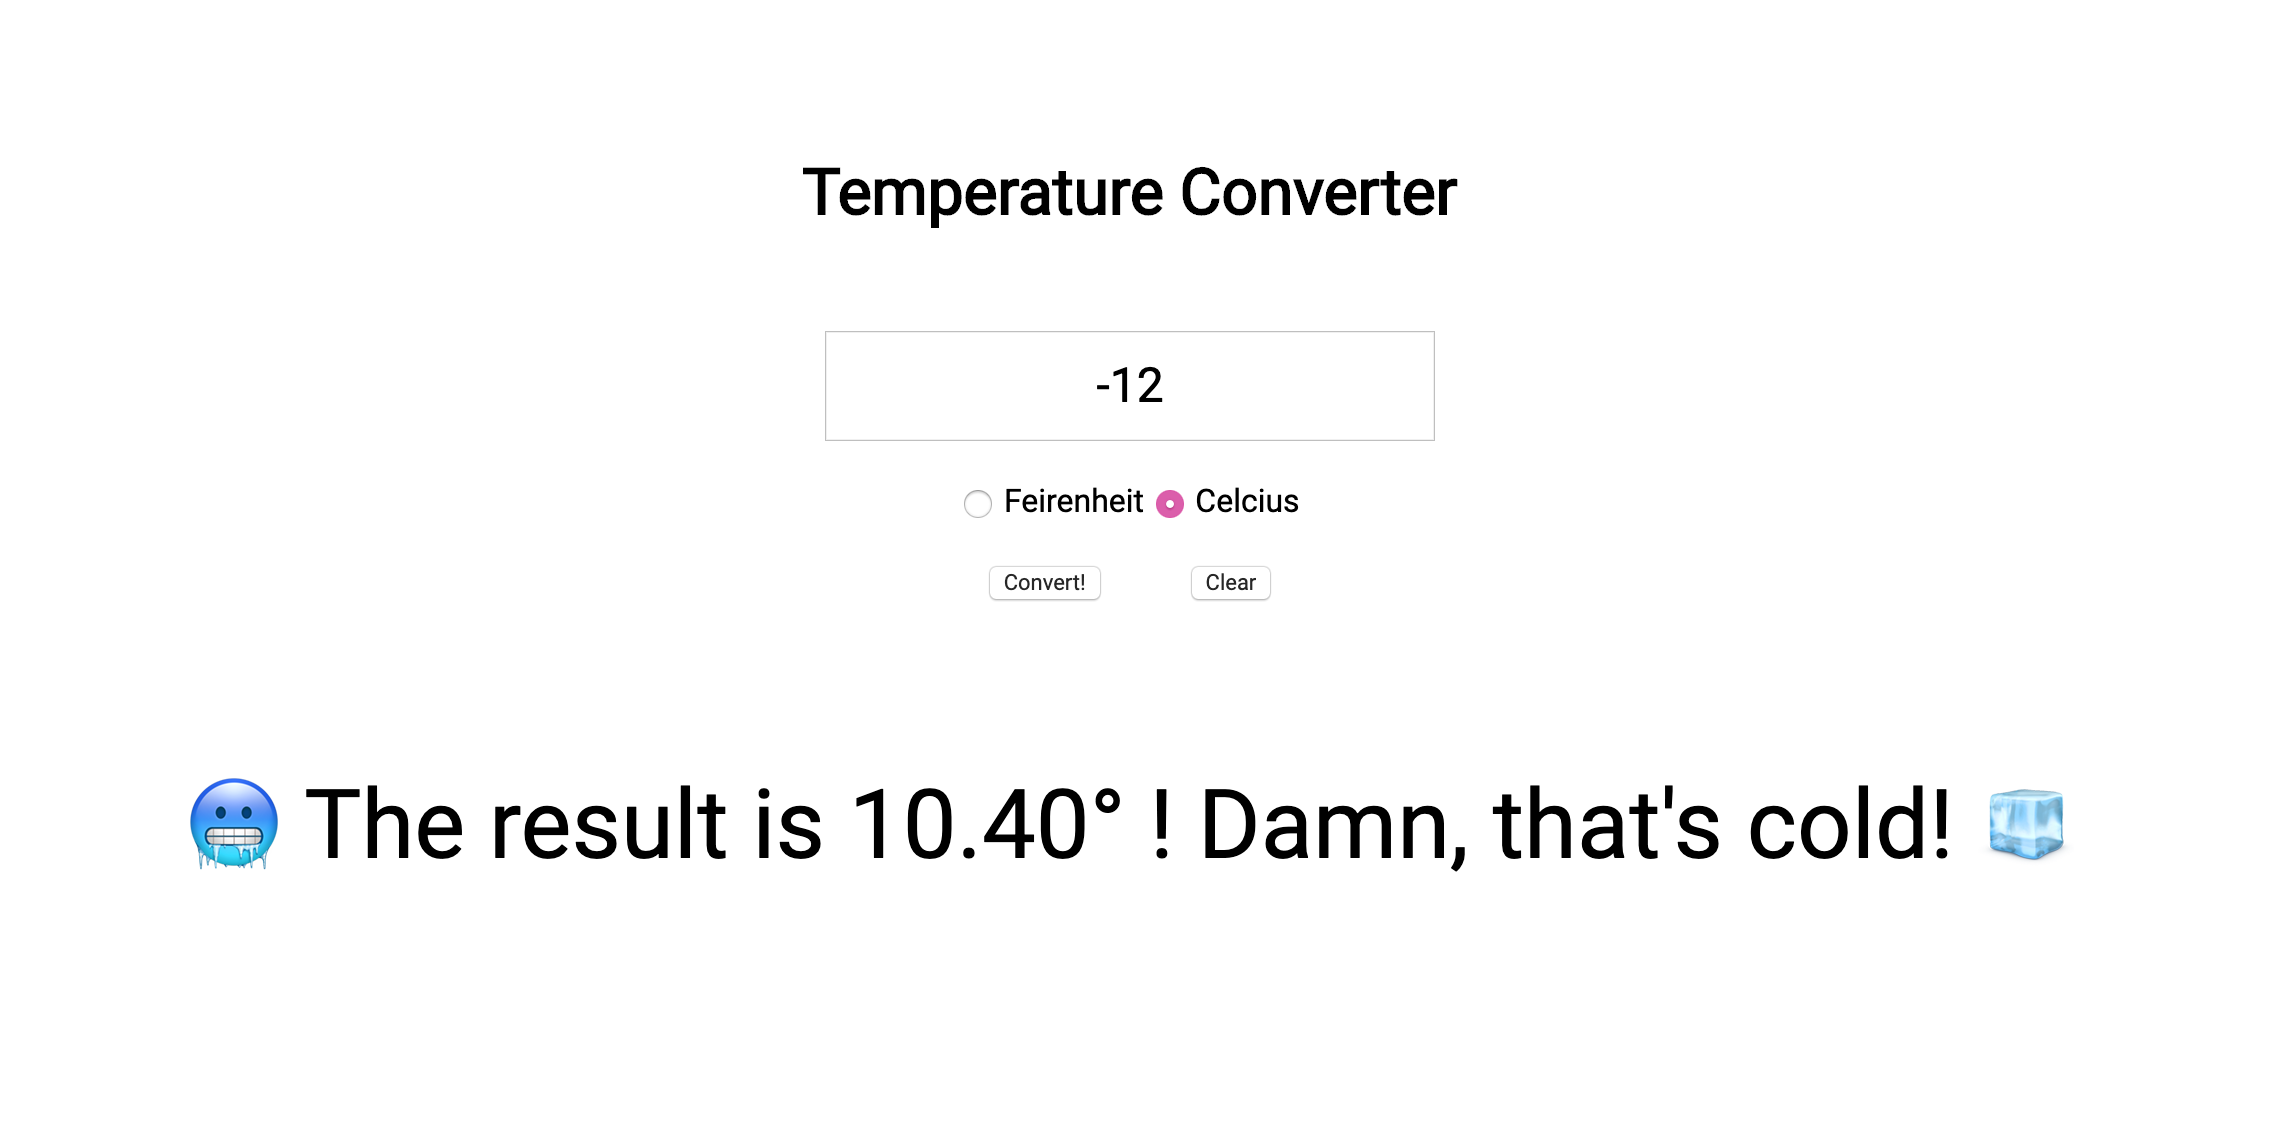
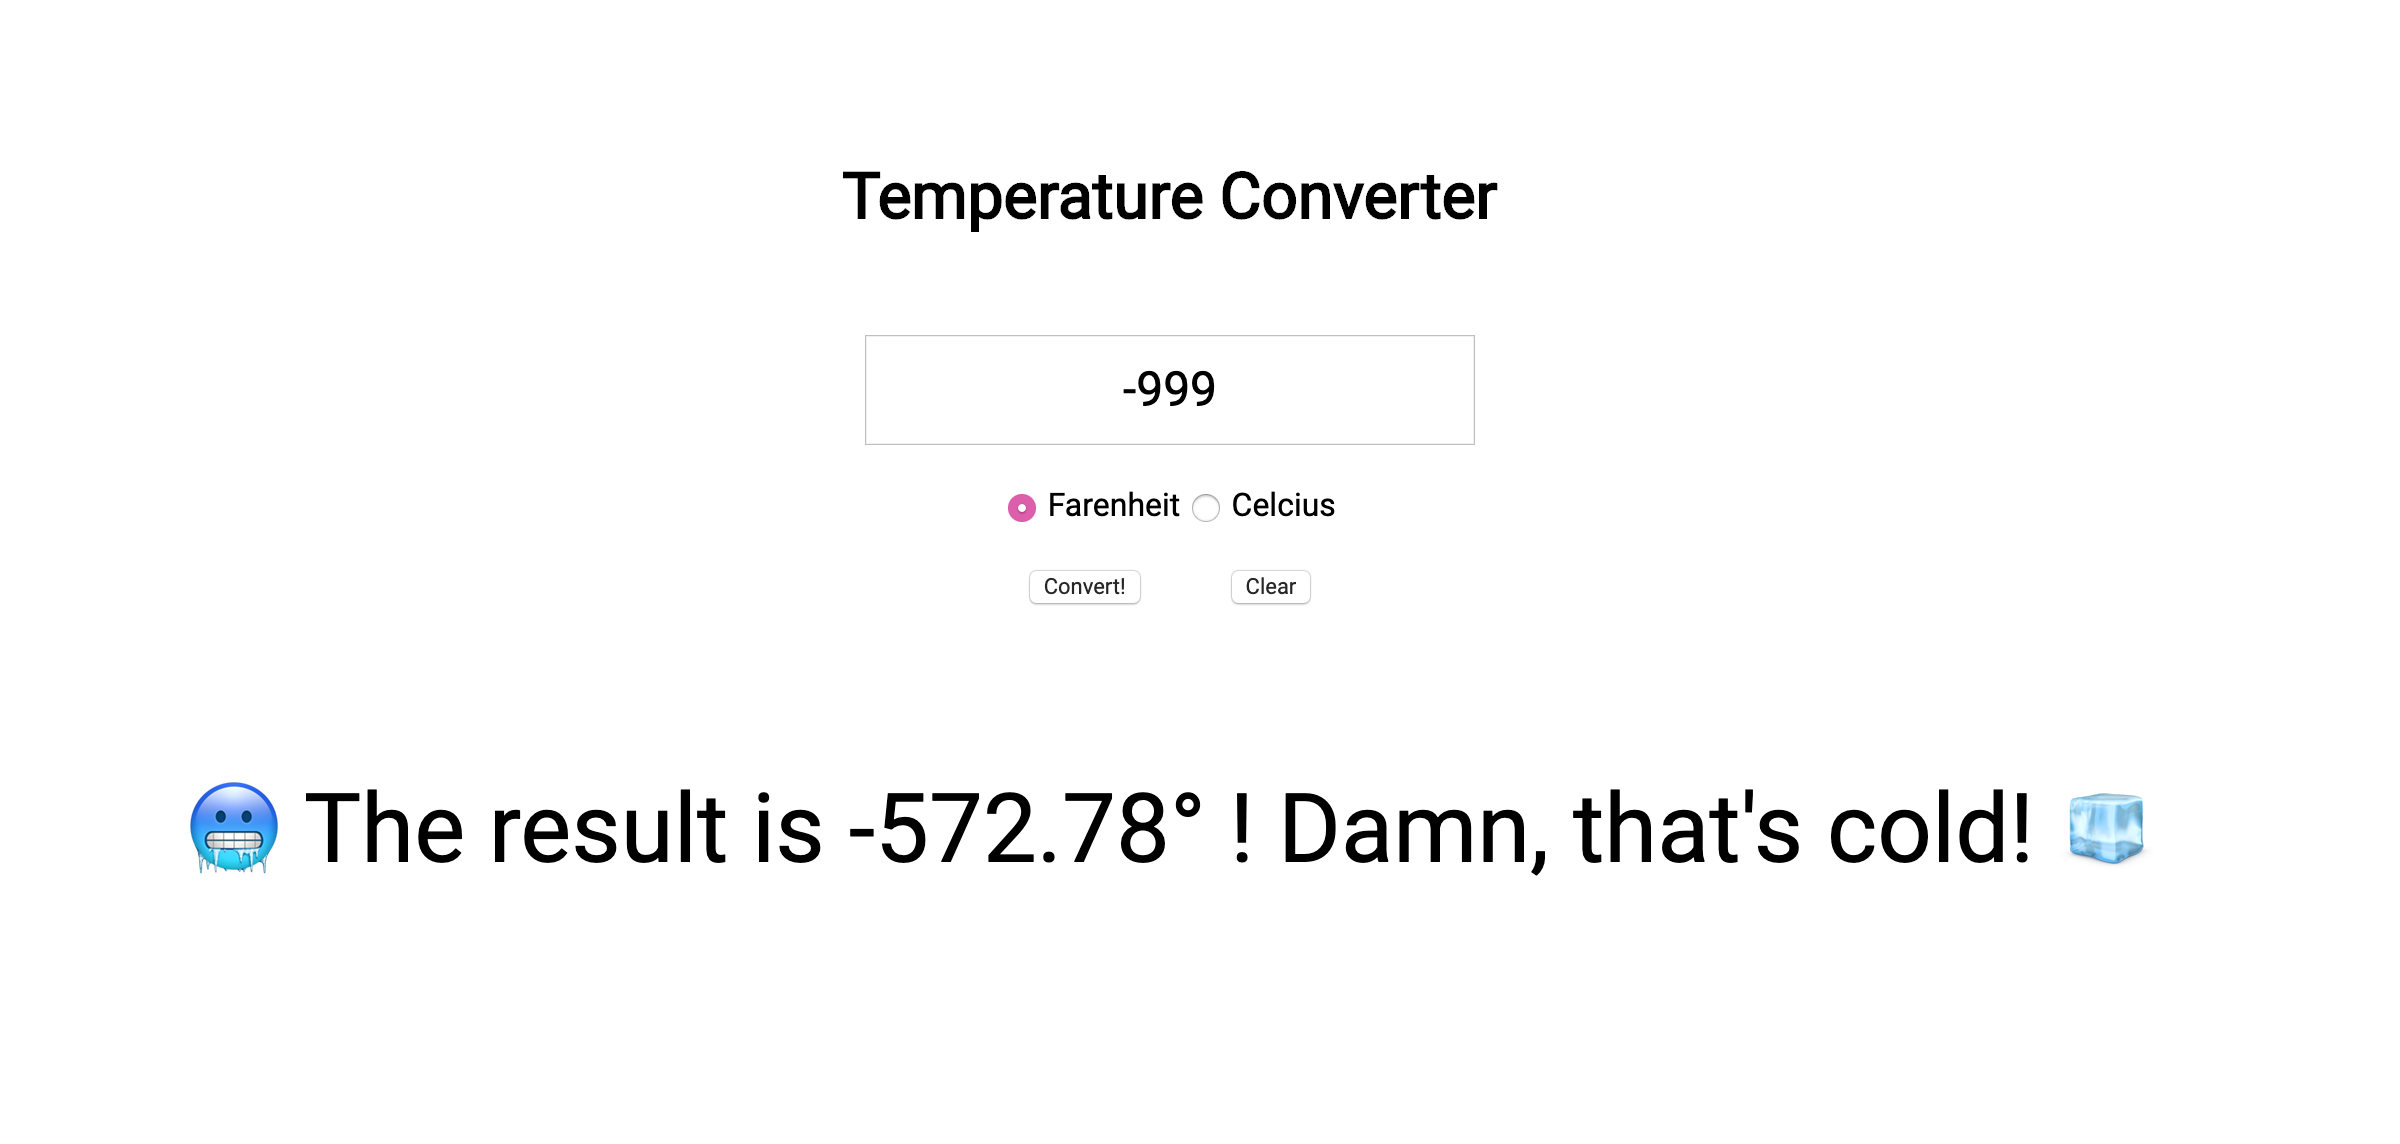
omfg I spelled farenheit wrong

diff --git a/index.html b/index.html
@@ -14,7 +14,7 @@
       <input maxlength="4" type="text" id="temp" onkeypress="return onlyNumberKey(event)"  name="temp" placeholder="enter a temperature"><br>
     </div>
     <div class = "radiobuttons">
-      <input type="radio" class="radio" name="unit" value="f" id="f"> Feirenheit
+      <input type="radio" class="radio" name="unit" value="f" id="f"> Farenheit
       <input type="radio" class="radio" name="unit" value="c" id="c"> Celcius<br>
     </div>
     <div class="finalbuttons">
